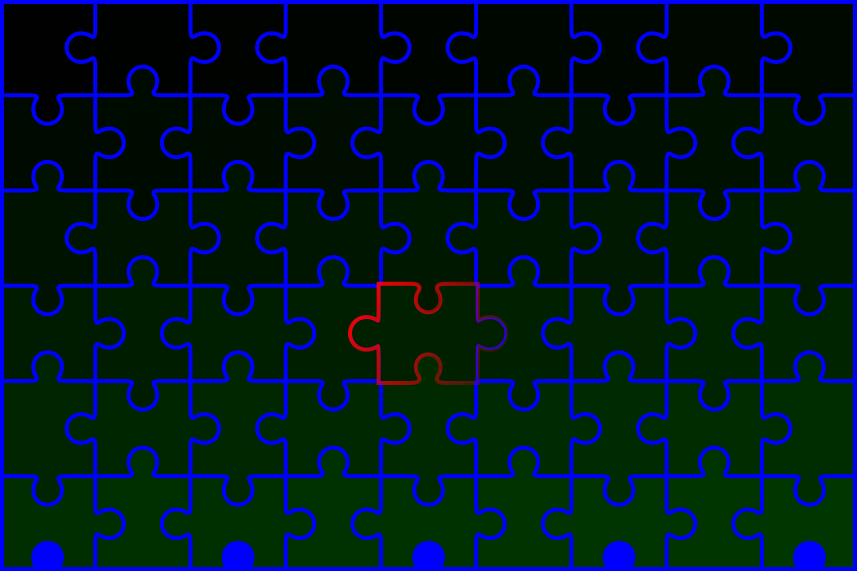
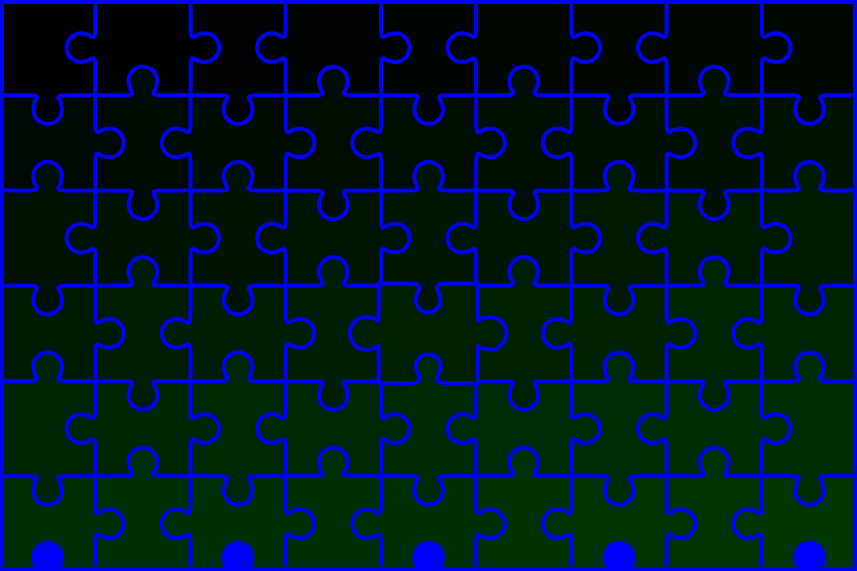
some reveal animation tweaks

Changed region(s): [[0.3944, 0.4764, 0.6068, 0.6848]]

diff --git a/src/pages/home/community_section/members_jigsaw/shaders.rs b/src/pages/home/community_section/members_jigsaw/shaders.rs
@@ -35,71 +35,71 @@ float remap(float v, float inMin, float inMax, float outMin, float outMax) {
 }
 
 void main() {
-  float numberOfPieces = 54.0;
-  vec3 backgroundColor = vec3(0.012, 0.012, 0.012); // Background color
-  vec4 imageColor = texture2D(u_mainImage, v_texCoord);
-  vec4 maskColor = texture2D(u_maskImage, v_texCoord);
+    float numberOfPieces = 54.0;
+    vec3 backgroundColor = vec3(0.012, 0.012, 0.012);
+    vec4 imageColor = texture2D(u_mainImage, v_texCoord);
+    vec4 maskColor = texture2D(u_maskImage, v_texCoord);
 
-  float perPieceTime = u_revealDuration / numberOfPieces;
-  float currentAnimPieceVal = u_duration / perPieceTime;
+    float greenValue = maskColor.g * 255.0;
+    float pieceIndex = floor(greenValue + 0.5) - 1.0;
 
-  float currentAnimPieceIndex = floor(currentAnimPieceVal) + 1.0;
-  float pieceProgress = fract(currentAnimPieceVal);
+    float pieceCols = 9.0;
+    float pieceRows = 6.0;
+    float pieceX = mod(pieceIndex, pieceCols);
+    float pieceY = floor(pieceIndex / pieceCols);
 
-  // Map maskColor.g to piece index
-  float greenValue = maskColor.g * 255.0; // Convert normalized [0, 1] to [0, 255]
-  float currentPieceIndex = floor(greenValue + 0.5) - 1.0; // Round to nearest index
+    float centerPieceX = mod(31.0, pieceCols); // 4.0
+    float centerPieceY = floor(31.0 / pieceCols); // 3.0
 
-  vec2 texelSize = vec2(1.0 / u_textureResolution.x, 1.0 / u_textureResolution.y);
+    // Use either Manhattan or Euclidean distance
+    float distanceFromCenter = abs(pieceX - centerPieceX) + abs(pieceY - centerPieceY);
+    // float distanceFromCenter = distance(vec2(pieceX, pieceY), vec2(centerPieceX, centerPieceY));
 
-  // Offsets for neighboring pixels
-  vec2 offsetRight = vec2(texelSize.x, 0.0);
-  vec2 offsetLeft = vec2(-texelSize.x, 0.0);
-  vec2 offsetUp = vec2(0.0, texelSize.y);
-  vec2 offsetDown = vec2(0.0, -texelSize.y);
+    float maxDistance = pieceCols + pieceRows;
+    float perRingTime = u_revealDuration / maxDistance;
 
-  float neighborG1 = texture2D(u_maskImage, v_texCoord + offsetRight).g * 255.0;
-  float neighborG2 = texture2D(u_maskImage, v_texCoord + offsetLeft).g * 255.0;
-  float neighborG3 = texture2D(u_maskImage, v_texCoord + offsetUp).g * 255.0;
-  float neighborG4 = texture2D(u_maskImage, v_texCoord + offsetDown).g * 255.0;
+    // Smooth fade per piece
+    float pieceRevealTime = distanceFromCenter * perRingTime;
+    float fade = smoothstep(pieceRevealTime, pieceRevealTime + perRingTime, u_duration);
 
-  float deltaG1 = abs(neighborG1 - greenValue);
-  float deltaG2 = abs(neighborG2 - greenValue);
-  float deltaG3 = abs(neighborG3 - greenValue);
-  float deltaG4 = abs(neighborG4 - greenValue);
+    // Edge detection
+    vec2 texelSize = vec2(1.0 / u_textureResolution.x, 1.0 / u_textureResolution.y);
+    vec2 offsetRight = vec2(texelSize.x, 0.0);
+    vec2 offsetLeft = vec2(-texelSize.x, 0.0);
+    vec2 offsetUp = vec2(0.0, texelSize.y);
+    vec2 offsetDown = vec2(0.0, -texelSize.y);
 
-  float edgeThreshold = 0.5; // Tolerance for blending
-  float isEdge = float(max(max(deltaG1, deltaG2), max(deltaG3, deltaG4)) > edgeThreshold);
+    float neighborG1 = texture2D(u_maskImage, v_texCoord + offsetRight).g * 255.0;
+    float neighborG2 = texture2D(u_maskImage, v_texCoord + offsetLeft).g * 255.0;
+    float neighborG3 = texture2D(u_maskImage, v_texCoord + offsetUp).g * 255.0;
+    float neighborG4 = texture2D(u_maskImage, v_texCoord + offsetDown).g * 255.0;
 
-  // Visibility logic
-  float pieceVisibilityMultiplier = step(currentPieceIndex, currentAnimPieceIndex);
+    float deltaG1 = abs(neighborG1 - greenValue);
+    float deltaG2 = abs(neighborG2 - greenValue);
+    float deltaG3 = abs(neighborG3 - greenValue);
+    float deltaG4 = abs(neighborG4 - greenValue);
 
-  float opacity = 0.0;
-  vec3 color = backgroundColor;
+    float edgeThreshold = 0.5;
+    float isEdge = float(max(max(deltaG1, deltaG2), max(deltaG3, deltaG4)) > edgeThreshold);
 
-  // Detect blue or blue-red blends in the mask
-  float isBlue = float(maskColor.b > 0.5); // Convert bool to float
-  float isRed = float(maskColor.r > 0.5);  // Convert bool to float
-  float isBlueOrBlend = max(isBlue, isRed * isBlue); // Blue or red-blue blend
+    float isBlue = float(maskColor.b > 0.5);
+    float isRed = float(maskColor.r > 0.5);
+    float isBlueOrBlend = max(isBlue, isRed * isBlue);
 
-  if (isBlueOrBlend > 0.0) {
-      // Blend background and image color based on the blue component
-      color = mix(backgroundColor, imageColor.rgb, maskColor.b);
-  } else if (pieceVisibilityMultiplier == 1.0) {
-      if (currentPieceIndex == currentAnimPieceIndex) {
-          opacity = pieceProgress; // Smooth fade-in for the current piece
-      } else {
-          opacity = 1.0; // Fully revealed pieces
-      }
+    float opacity = 0.0;
+    vec3 color = backgroundColor;
 
-      color = mix(backgroundColor, imageColor.rgb, opacity); // Blend smoothly
-  }
+    if (isBlueOrBlend > 0.0) {
+        color = mix(backgroundColor, imageColor.rgb, maskColor.b);
+    } else {
+        opacity = fade;
+        color = mix(backgroundColor, imageColor.rgb, opacity);
+    }
 
-  // Apply edge blending
-  if (isEdge > 0.0) {
-      color = backgroundColor;
-  }
+    if (isEdge > 0.0) {
+        color = backgroundColor;
+    }
 
-  gl_FragColor = vec4(color, opacity);
+    gl_FragColor = vec4(color, opacity);
 }
 ";

diff --git a/src/pages/home/community_section/view.rs b/src/pages/home/community_section/view.rs
@@ -4,7 +4,7 @@ use crate::components::button::view::{
     Button, ButtonColorVariants, ButtonSizeVariants, ButtonUsecase,
 };
 
-// use super::members_jigsaw::view::MembersJigsaw;
+use super::members_jigsaw::view::MembersJigsaw;
 
 #[component]
 pub fn CommunitySection() -> impl IntoView {
@@ -26,8 +26,8 @@ pub fn CommunitySection() -> impl IntoView {
             </div>
 
             <div class="w-full mt-8 max-w-[858px]">
-                // <MembersJigsaw />
-                <img src="/assets/images/puzzle.png" class="aspect-[857/571] w-full" />
+                <MembersJigsaw />
+                // <img src="/assets/images/puzzle.png" class="aspect-[857/571] w-full" />
             </div>
         </section>
     }

diff --git a/src/pages/home/community_section/members_jigsaw/view.rs b/src/pages/home/community_section/members_jigsaw/view.rs
@@ -11,7 +11,7 @@ use crate::utils::render_loop::RenderLoop;
 
 use super::jigsaw::Jigsaw;
 
-const REVEAL_DURATION: f64 = 5000.0;
+const REVEAL_DURATION: f64 = 1000.0;
 
 pub fn start_animation_loop(jigsaw: Jigsaw, duration: RwSignal<f64>) {
     let render_loop: Rc<RefCell<RenderLoop>> = Rc::new(RefCell::new(RenderLoop::new(None, None)));
